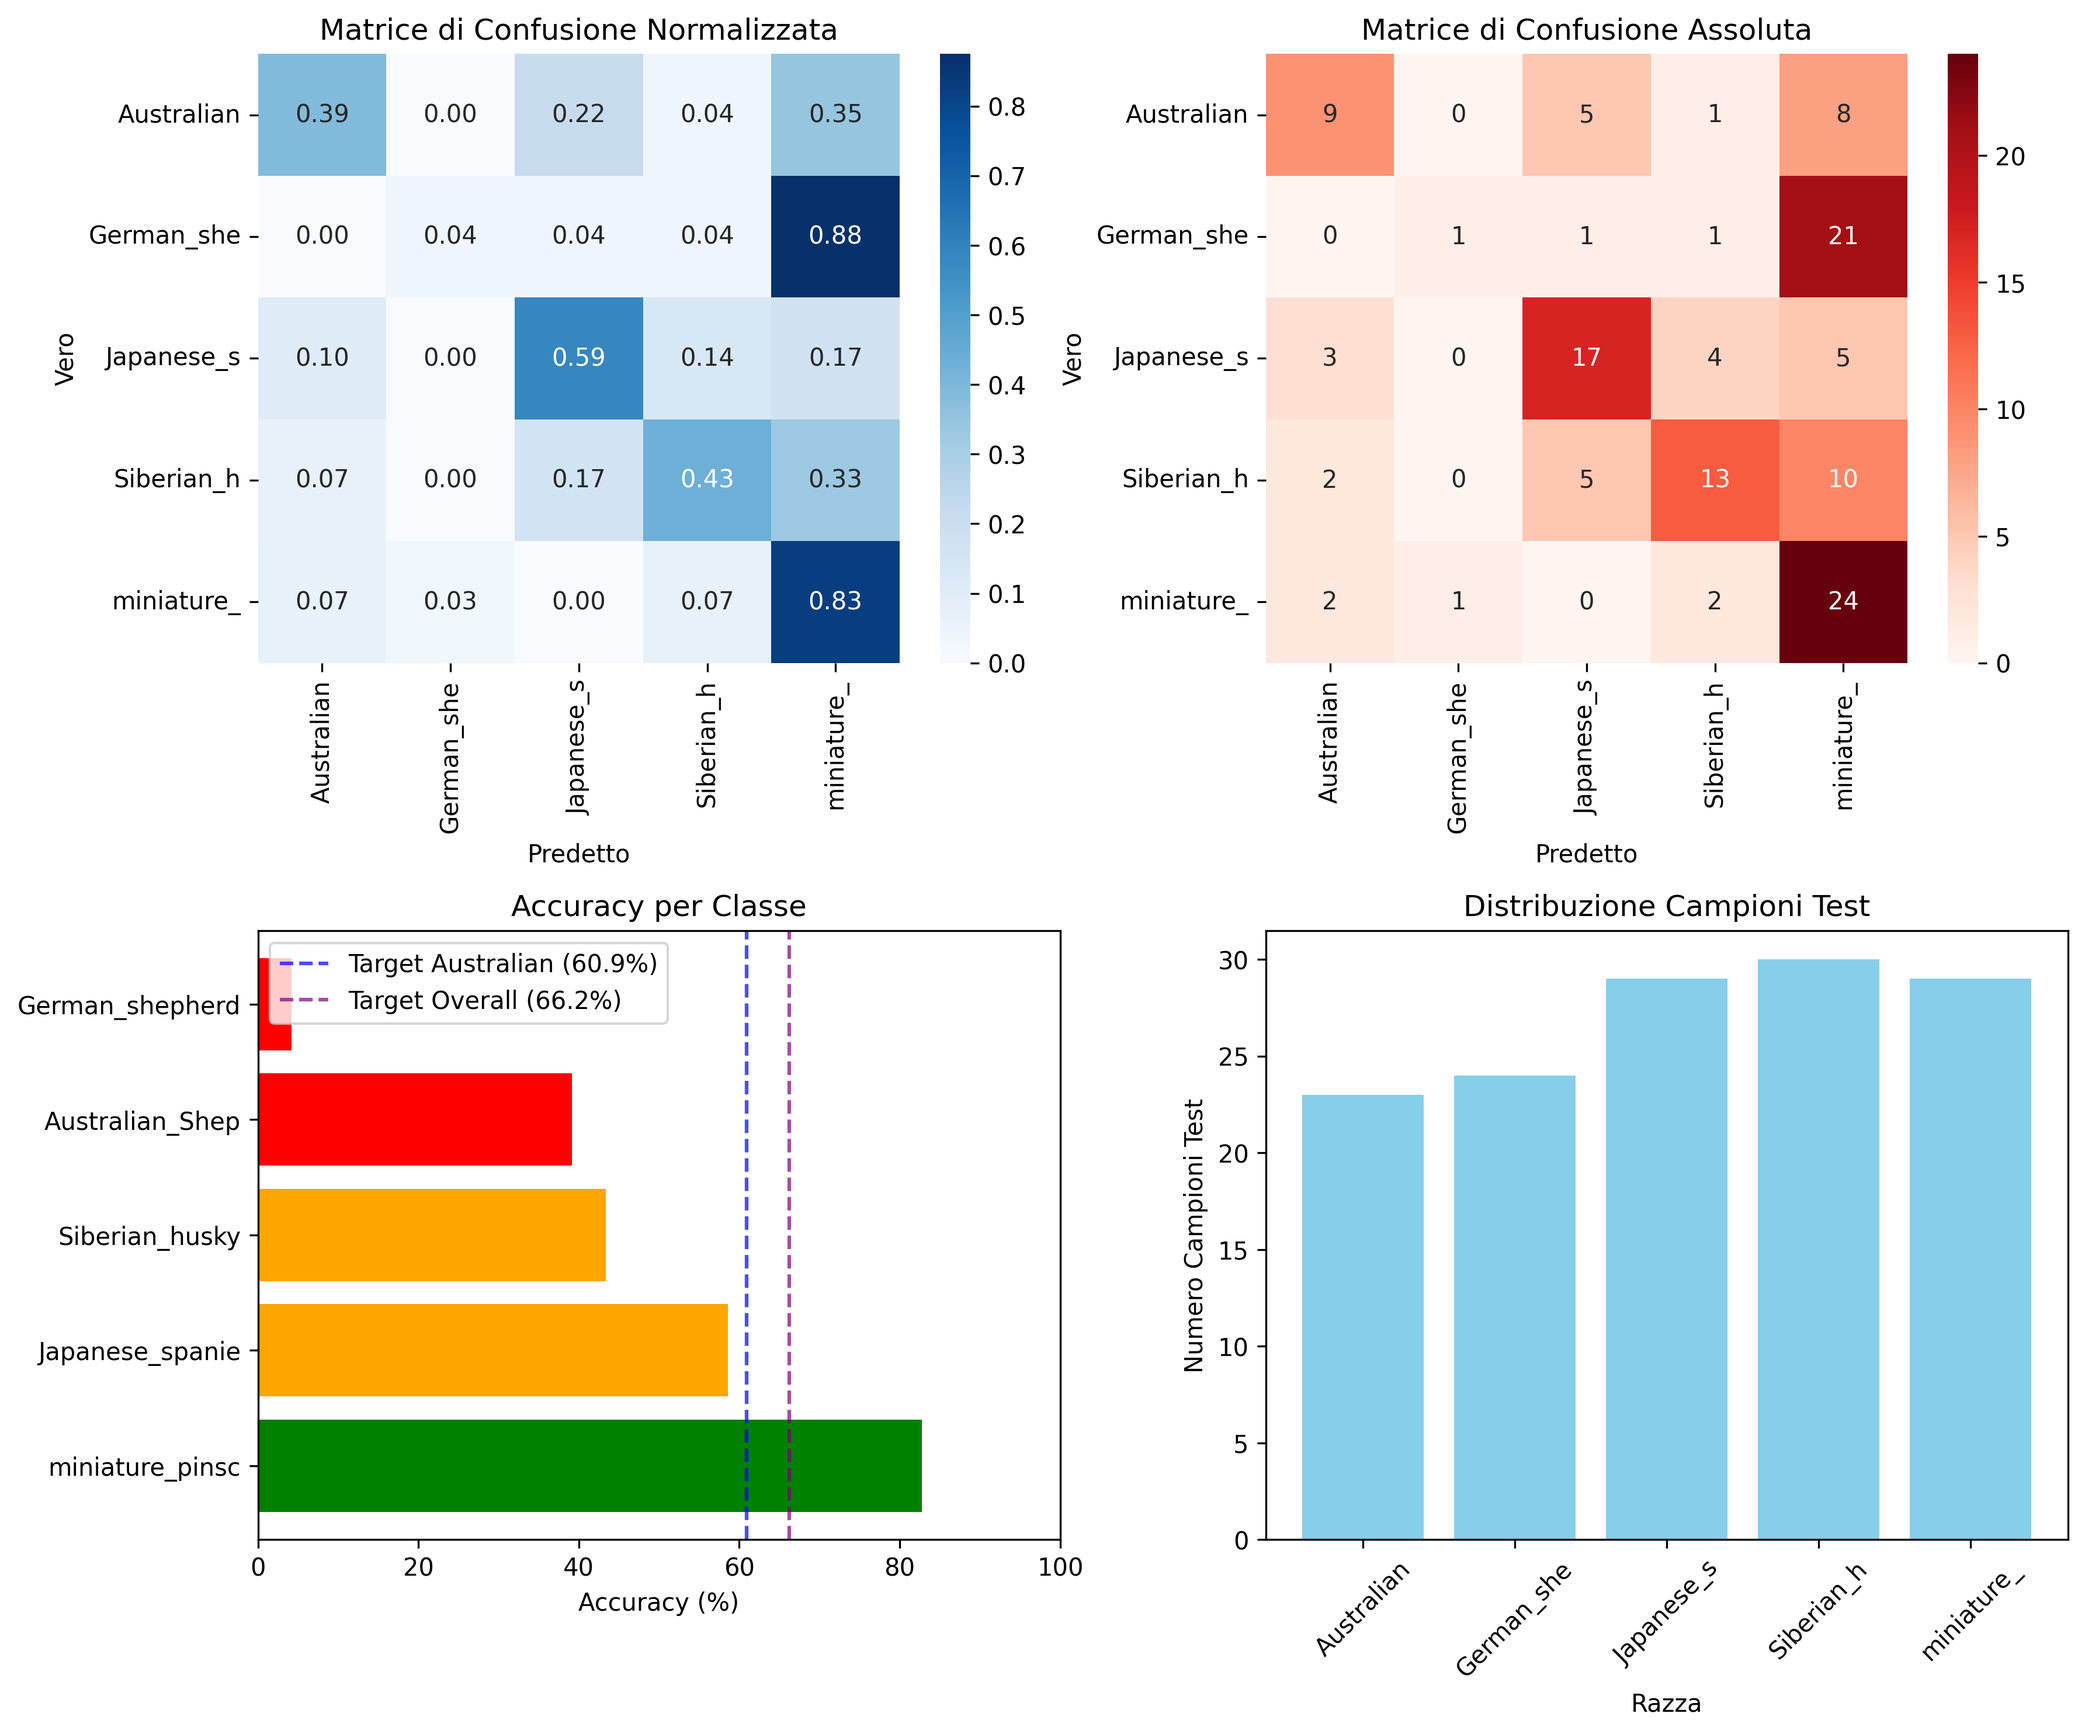
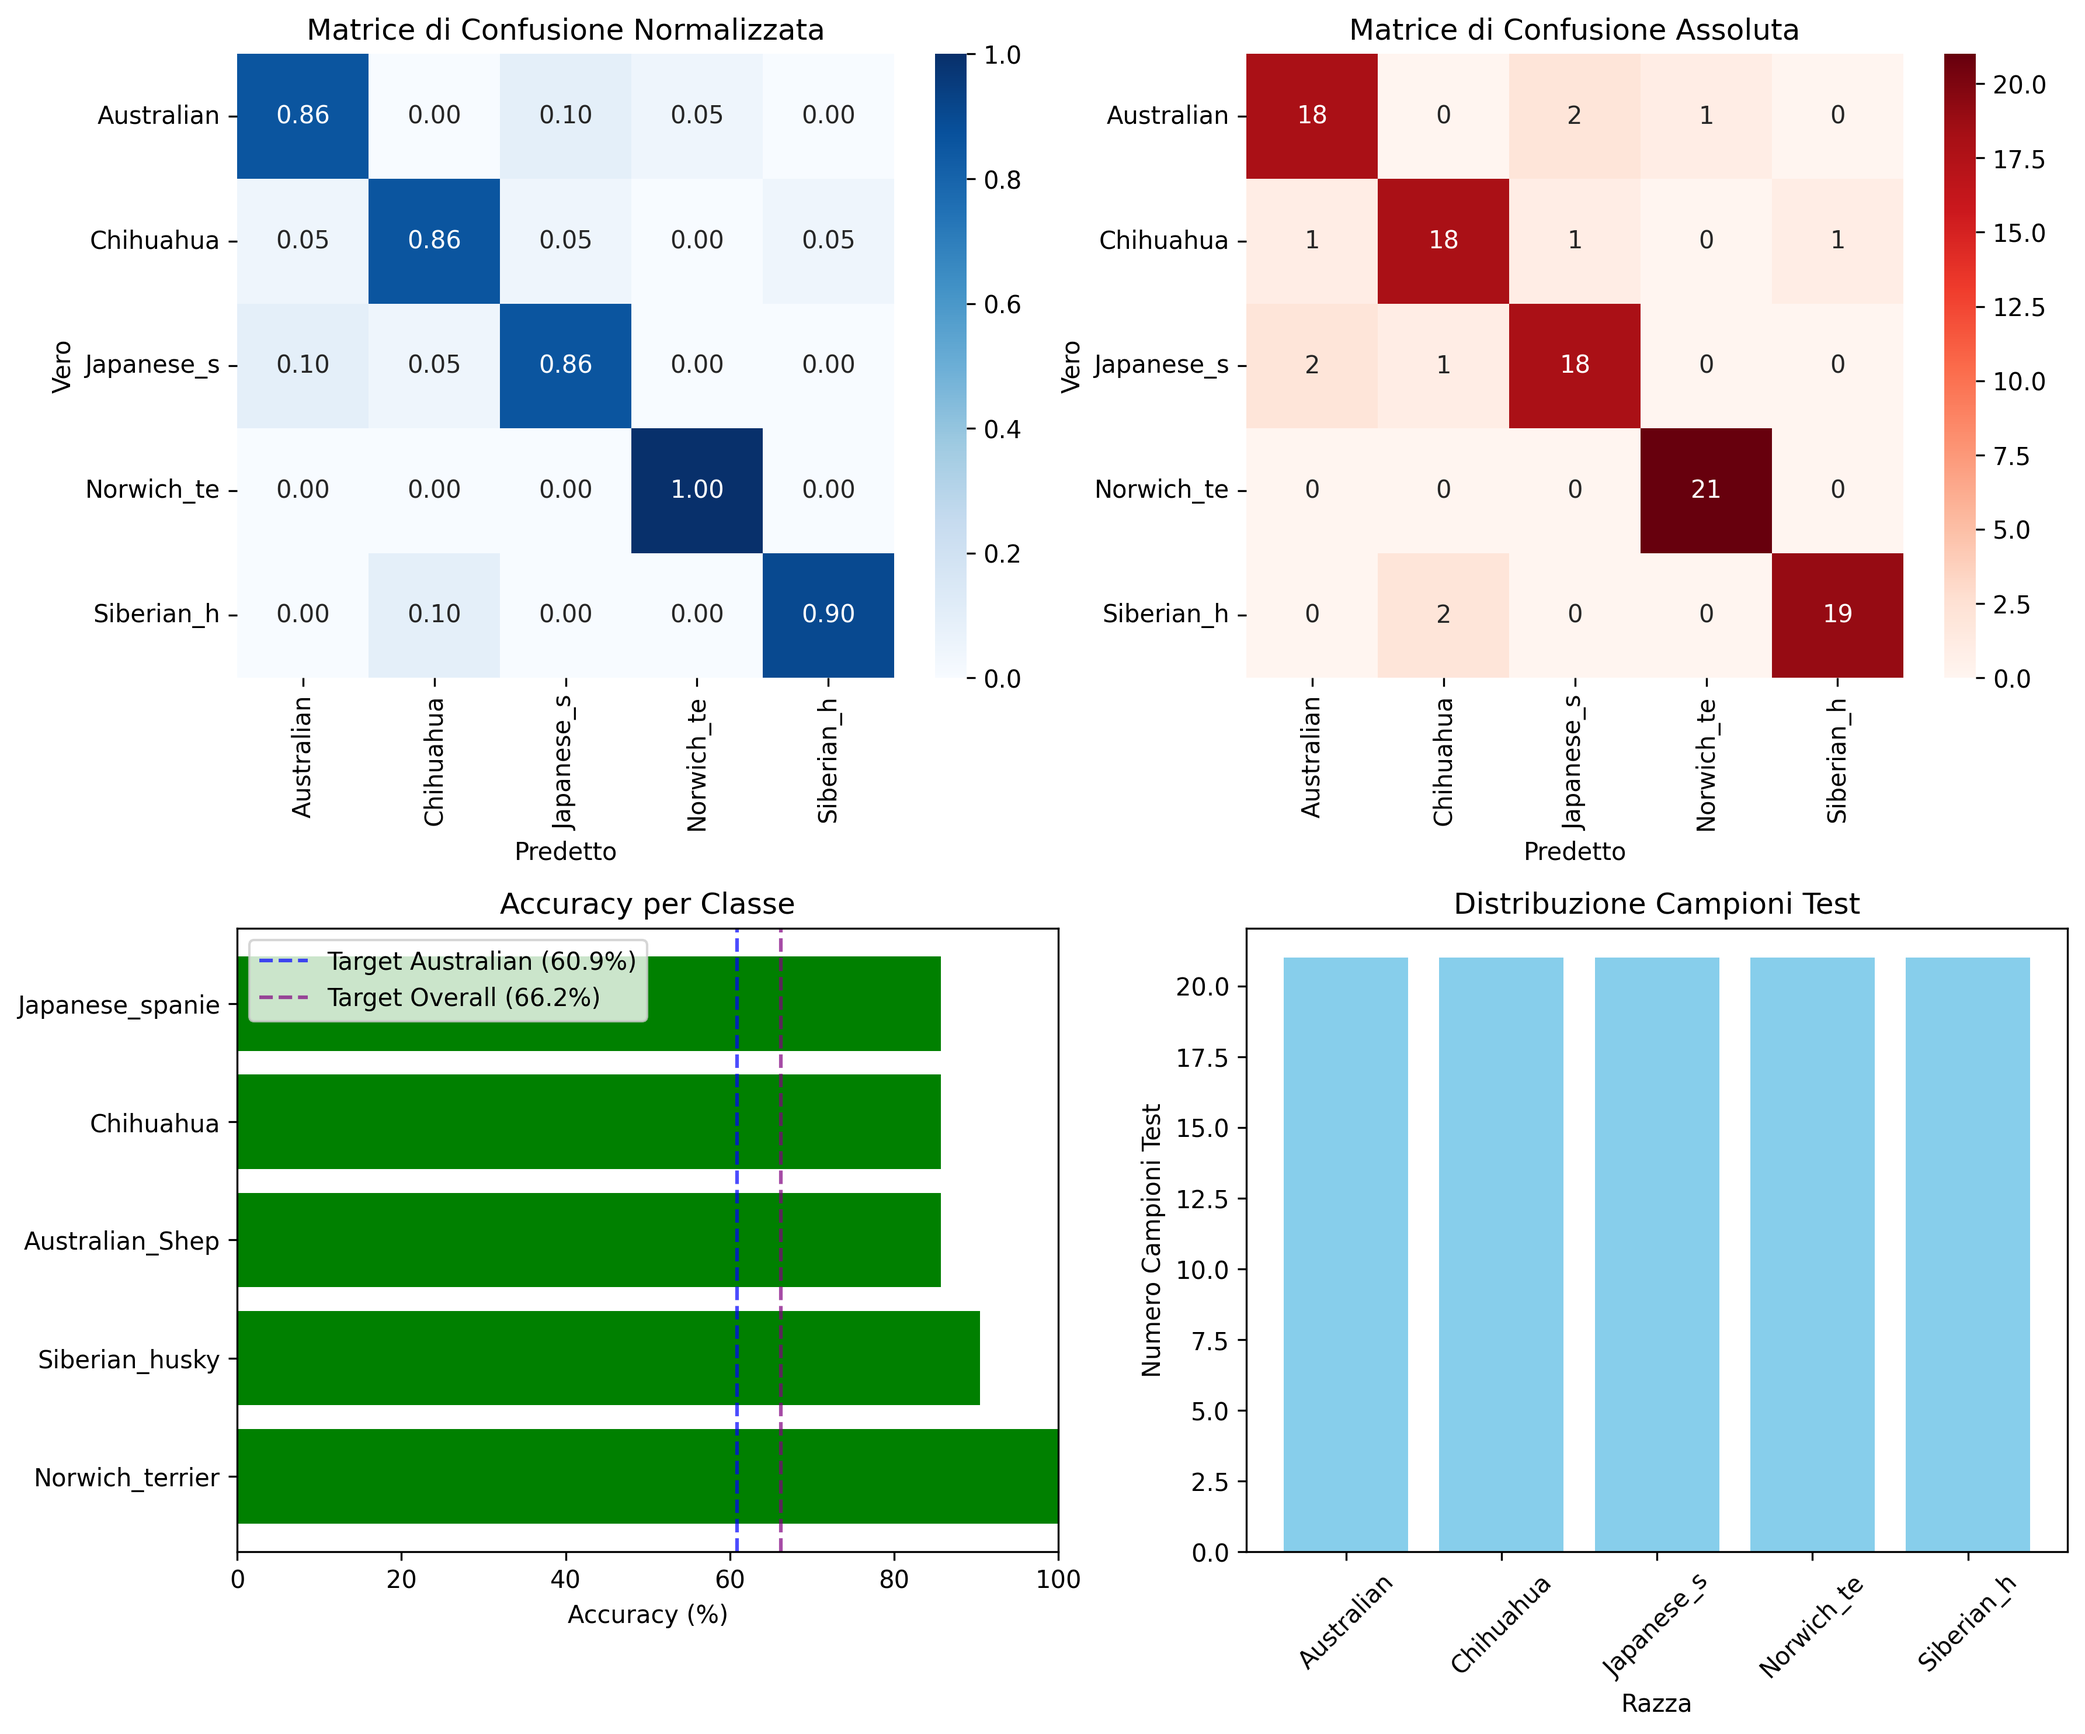
otimize training moddel for 5 dogs with result

diff --git a/analyze_confusion.py b/analyze_confusion.py
@@ -29,8 +29,8 @@ def analyze_confusion():
     device = torch.device("cuda" if torch.cuda.is_available() else "cpu")
     print(f"Using device: {device}")
 
-    # Carica il modello salvato
-    model_path = "outputs/improved/best_model.pth"
+    # Carica il modello salvato (quick5 di default)
+    model_path = "outputs/quick5/best_model.pth"
     if not os.path.exists(model_path):
         print(f"❌ Modello non trovato: {model_path}")
         return
@@ -47,16 +47,35 @@ def analyze_confusion():
     print(f"   Razze: {breed_names}")
     print(f"   Best Val Acc: {checkpoint.get('best_val_acc', 'N/A'):.2f}%")
 
-    # Crea modello
-    model = create_breed_classifier(
-        model_type="simple", num_classes=num_classes, dropout_rate=0.3
-    )
-    model.load_state_dict(checkpoint["model_state_dict"])
+    # Crea modello (rileva automaticamente architettura dal checkpoint)
+    state_dict = checkpoint["model_state_dict"]
+    backbone_keys = [
+        k
+        for k in state_dict.keys()
+        if k.startswith("layer1.") or k.startswith("conv1.")
+    ]
+    if len(backbone_keys) > 0:
+        # ResNet18 backbone
+        print("🧠 Rilevato backbone ResNet18 dal checkpoint")
+        model = create_breed_classifier(
+            model_type="simple",  # ignorato quando si specifica il backbone
+            num_classes=num_classes,
+            dropout_rate=0.4,
+            pretrained_backbone="resnet18",
+            freeze_backbone=False,
+        )
+    else:
+        # Simple CNN
+        model = create_breed_classifier(
+            model_type="simple", num_classes=num_classes, dropout_rate=0.3
+        )
+
+    model.load_state_dict(state_dict)
     model = model.to(device)
     model.eval()
 
-    # Carica dataset
-    data_dir = "data/quick_splits"
+    # Carica dataset (5 razze)
+    data_dir = "data/breeds_5"
     _, _, test_loader = create_dataloaders_from_splits(
         splits_dir=data_dir,
         batch_size=32,

diff --git a/README.md b/README.md
@@ -75,11 +75,13 @@ dogIdentifier/
 
 ## 🚀 Training Scripts
 
-### Core Scripts (3 principali):
+### Core Scripts (snelliti):
 
 - **`quick5_tensorboard_train.py`**: Training 5 razze con TensorBoard monitoring
 - **`top10_balanced_train.py`**: Training 10 razze bilanciate
-- **`my_dog_train.py`**: Classificazione binaria mio cane (TODO)
+- **`my_dog_train.py`**: Classificazione binaria mio cane
+
+Altri script sperimentali sono stati spostati in `experiments/archive/`.
 
 ### Key Features:
 
